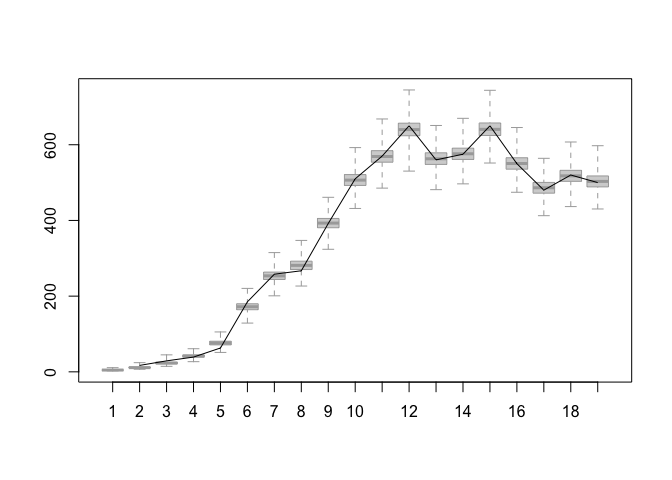
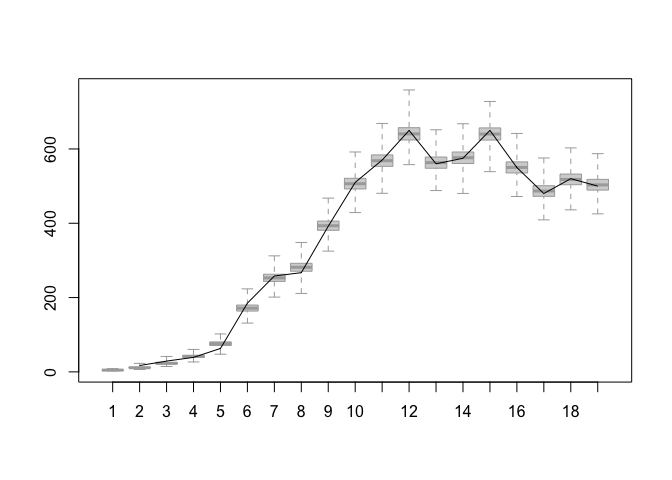
Update

diff --git a/03-time-series/README.md b/03-time-series/README.md
@@ -94,7 +94,7 @@ library(dclone)
     ## dclone 2.3-1      2023-04-07
 
 ``` r
-T_max = 100  # Number of time steps
+T_max = 200  # Number of time steps
 rho = 0.3
 sigma.e = 1
 tau.e = 0.25
@@ -154,9 +154,9 @@ AR1_Bayes_fit = jags.fit(data=dat, params=c("rho","prec.e","prec.t"), model=AR1_
     ##    Resolving undeclared variables
     ##    Allocating nodes
     ## Graph information:
-    ##    Observed stochastic nodes: 100
-    ##    Unobserved stochastic nodes: 103
-    ##    Total graph size: 310
+    ##    Observed stochastic nodes: 200
+    ##    Unobserved stochastic nodes: 203
+    ##    Total graph size: 610
     ## 
     ## Initializing model
 
@@ -174,16 +174,16 @@ summary(AR1_Bayes_fit)
     ##    plus standard error of the mean:
     ## 
     ##         Mean     SD Naive SE Time-series SE
-    ## prec.e 1.772 1.1264 0.009197        0.07823
-    ## prec.t 6.278 5.6375 0.046030        0.36594
-    ## rho    0.393 0.1259 0.001028        0.00252
+    ## prec.e 2.570 1.9709 0.016092       0.174432
+    ## prec.t 4.359 4.5044 0.036779       0.383831
+    ## rho    0.396 0.1466 0.001197       0.009174
     ## 
     ## 2. Quantiles for each variable:
     ## 
-    ##          2.5%    25%    50%    75%  97.5%
-    ## prec.e 0.9583 1.2525 1.4975 1.9022  4.144
-    ## prec.t 1.4006 2.7996 4.4722 7.6417 22.494
-    ## rho    0.1463 0.3106 0.3913 0.4761  0.642
+    ##          2.5%    25%    50%    75%   97.5%
+    ## prec.e 1.0604 1.4037 1.9321 3.0111  7.6855
+    ## prec.t 1.2703 1.8390 2.6591 4.8807 18.1782
+    ## rho    0.1485 0.2889 0.3809 0.4929  0.7124
 
 ``` r
 plot(AR1_Bayes_fit)
@@ -236,9 +236,9 @@ AR1_DC_fit = dc.fit(data=dat,params=c("rho","prec.t","prec.e"),model=AR1_DC_mode
     ##    Resolving undeclared variables
     ##    Allocating nodes
     ## Graph information:
-    ##    Observed stochastic nodes: 100
-    ##    Unobserved stochastic nodes: 103
-    ##    Total graph size: 311
+    ##    Observed stochastic nodes: 200
+    ##    Unobserved stochastic nodes: 203
+    ##    Total graph size: 611
     ## 
     ## Initializing model
     ## 
@@ -249,9 +249,9 @@ AR1_DC_fit = dc.fit(data=dat,params=c("rho","prec.t","prec.e"),model=AR1_DC_mode
     ##    Resolving undeclared variables
     ##    Allocating nodes
     ## Graph information:
-    ##    Observed stochastic nodes: 1000
-    ##    Unobserved stochastic nodes: 1003
-    ##    Total graph size: 3002
+    ##    Observed stochastic nodes: 2000
+    ##    Unobserved stochastic nodes: 2003
+    ##    Total graph size: 6002
     ## 
     ## Initializing model
     ## 
@@ -262,9 +262,9 @@ AR1_DC_fit = dc.fit(data=dat,params=c("rho","prec.t","prec.e"),model=AR1_DC_mode
     ##    Resolving undeclared variables
     ##    Allocating nodes
     ## Graph information:
-    ##    Observed stochastic nodes: 2000
-    ##    Unobserved stochastic nodes: 2003
-    ##    Total graph size: 5992
+    ##    Observed stochastic nodes: 4000
+    ##    Unobserved stochastic nodes: 4003
+    ##    Total graph size: 11992
     ## 
     ## Initializing model
 
@@ -285,26 +285,26 @@ summary(AR1_DC_fit)
     ## 1. Empirical mean and standard deviation for each variable,
     ##    plus standard error of the mean:
     ## 
-    ##           Mean      SD   DC SD  Naive SE Time-series SE R hat
-    ## prec.e  1.2104 0.07033  0.3145 0.0005743      0.0079082 1.085
-    ## prec.t 17.2381 8.52393 38.1202 0.0695976      1.4040514 1.296
-    ## rho     0.3509 0.02495  0.1116 0.0002037      0.0009894 1.032
+    ##          Mean      SD  DC SD Naive SE Time-series SE R hat
+    ## prec.e 1.9284 0.44600 1.9946 0.003642       0.075424 1.100
+    ## prec.t 3.2118 1.24420 5.5642 0.010159       0.245168 1.191
+    ## rho    0.3771 0.05976 0.2673 0.000488       0.009764 1.108
     ## 
     ## 2. Quantiles for each variable:
     ## 
-    ##         2.5%     25%     50%     75%   97.5%
-    ## prec.e 1.098  1.1627  1.2014  1.2472  1.3837
-    ## prec.t 6.250 11.2048 15.1937 21.3701 39.0880
-    ## rho    0.303  0.3341  0.3505  0.3673  0.4011
+    ##          2.5%    25%    50%    75%  97.5%
+    ## prec.e 1.3014 1.5944 1.8427 2.1861 3.0264
+    ## prec.t 1.8615 2.3544 2.8599 3.6733 6.9722
+    ## rho    0.2753 0.3326 0.3725 0.4176 0.5054
 
 ``` r
 dcdiag(AR1_DC_fit)
 ```
 
-    ##   n.clones lambda.max  ms.error  r.squared    r.hat
-    ## 1        1   35.34487 41.049049 0.46651078 1.013016
-    ## 2       10   92.57603  3.027127 0.13375675 1.077073
-    ## 3       20   72.65942  1.240150 0.05851262 1.180245
+    ##   n.clones lambda.max  ms.error r.squared    r.hat
+    ## 1        1  12.790437 28.537190 0.4222494 1.123060
+    ## 2       10   2.937209  9.826594 0.2296939 1.084862
+    ## 3       20   1.676096  5.334298 0.1617006 1.134098
 
 ``` r
 plot(dcdiag(AR1_DC_fit))
@@ -481,16 +481,16 @@ summary(BH_Bayes_fit)
     ##    plus standard error of the mean:
     ## 
     ##             Mean     SD Naive SE Time-series SE
-    ## ln.beta  -6.1524 0.1669 0.001363       0.004691
-    ## ln.sigma -1.9513 0.2739 0.002236       0.006891
-    ## ln.tmp    0.1581 0.1270 0.001037       0.003675
+    ## ln.beta  -6.1554 0.1651 0.001348       0.004423
+    ## ln.sigma -1.9668 0.2810 0.002295       0.006853
+    ## ln.tmp    0.1554 0.1261 0.001030       0.003394
     ## 
     ## 2. Quantiles for each variable:
     ## 
-    ##              2.5%      25%     50%    75%   97.5%
-    ## ln.beta  -6.49550 -6.25349 -6.1476 -6.049 -5.8236
-    ## ln.sigma -2.46652 -2.13917 -1.9558 -1.767 -1.4069
-    ## ln.tmp   -0.09701  0.08114  0.1602  0.237  0.4076
+    ##             2.5%      25%     50%     75%   97.5%
+    ## ln.beta  -6.5061 -6.25334 -6.1504 -6.0535 -5.8363
+    ## ln.sigma -2.4973 -2.16293 -1.9707 -1.7756 -1.4063
+    ## ln.tmp   -0.1134  0.08144  0.1584  0.2332  0.4028
 
 We can easily modify this program to obtain the MLE and its asymptotic
 variance.
@@ -580,9 +580,9 @@ dcdiag(BH_MLE)
 ```
 
     ##   n.clones  lambda.max   ms.error   r.squared    r.hat
-    ## 1        1 0.080578971 2.05897289 0.125435344 1.005363
-    ## 2        5 0.014442958 0.03579877 0.003989667 1.003206
-    ## 3       10 0.007320426 0.01529539 0.001367944 1.004197
+    ## 1        1 0.077813396 2.46464624 0.144387820 1.001228
+    ## 2        5 0.014738064 0.04861553 0.005266631 1.002731
+    ## 3       10 0.007446235 0.01101040 0.001313733 1.004338
 
 Parameters for this model are estimable. It will be interesting to see
 if one can use Negative Binomial distribution (one additional parameter)
@@ -671,48 +671,48 @@ summary(BH_Bayes_fit)
     ##    plus standard error of the mean:
     ## 
     ##          Mean      SD Naive SE Time-series SE
-    ## N[1]    4.798  0.6488 0.005298        0.01112
-    ## N[2]   11.366  1.7378 0.014189        0.03695
-    ## N[3]   23.475  3.1004 0.025314        0.05740
-    ## N[4]   41.818  4.3041 0.035143        0.06456
-    ## N[5]   76.006  7.0875 0.057869        0.11212
-    ## N[6]  172.324 11.9339 0.097440        0.16515
-    ## N[7]  254.042 14.3826 0.117433        0.15077
-    ## N[8]  281.411 16.1812 0.132119        0.22244
-    ## N[9]  393.208 18.2276 0.148828        0.19025
-    ## N[10] 506.992 21.2324 0.173362        0.22254
-    ## N[11] 569.251 22.4809 0.183556        0.23180
-    ## N[12] 640.603 24.7879 0.202392        0.27098
-    ## N[13] 563.626 22.6319 0.184788        0.23725
-    ## N[14] 576.416 22.4849 0.183589        0.23127
-    ## N[15] 641.187 24.7122 0.201774        0.27197
-    ## N[16] 550.786 22.5831 0.184391        0.23720
-    ## N[17] 486.605 21.0579 0.171937        0.22373
-    ## N[18] 518.184 21.4506 0.175143        0.22362
-    ## N[19] 503.257 21.3087 0.173985        0.22448
+    ## N[1]    4.774  0.6346 0.005182        0.01153
+    ## N[2]   11.323  1.7159 0.014010        0.03776
+    ## N[3]   23.383  3.0952 0.025272        0.06224
+    ## N[4]   41.732  4.2880 0.035012        0.06142
+    ## N[5]   75.872  7.0011 0.057164        0.10735
+    ## N[6]  172.004 12.0365 0.098278        0.17694
+    ## N[7]  253.346 14.5364 0.118689        0.15762
+    ## N[8]  281.576 15.9108 0.129911        0.22156
+    ## N[9]  393.559 18.5128 0.151157        0.19795
+    ## N[10] 506.843 21.2751 0.173710        0.22050
+    ## N[11] 568.934 22.6428 0.184878        0.23816
+    ## N[12] 640.740 24.3694 0.198975        0.26189
+    ## N[13] 563.387 22.3372 0.182383        0.23323
+    ## N[14] 576.587 22.8785 0.186802        0.24604
+    ## N[15] 640.571 24.3902 0.199145        0.27648
+    ## N[16] 550.471 21.9144 0.178930        0.23106
+    ## N[17] 486.951 21.1630 0.172796        0.24199
+    ## N[18] 518.312 21.5494 0.175950        0.22814
+    ## N[19] 503.712 21.4585 0.175208        0.22345
     ## 
     ## 2. Quantiles for each variable:
     ## 
-    ##          2.5%     25%     50%     75%   97.5%
-    ## N[1]    3.757   4.363   4.715   5.134   6.342
-    ## N[2]    8.675  10.165  11.112  12.311  15.411
-    ## N[3]   18.297  21.285  23.159  25.319  30.492
-    ## N[4]   33.737  38.933  41.656  44.620  50.786
-    ## N[5]   62.096  71.238  75.936  80.844  89.946
-    ## N[6]  150.257 164.130 171.972 179.837 197.243
-    ## N[7]  227.248 244.033 253.627 263.490 283.493
-    ## N[8]  250.497 270.307 281.331 292.361 313.561
-    ## N[9]  358.315 380.728 392.993 405.266 429.743
-    ## N[10] 466.680 492.419 506.524 521.203 549.044
-    ## N[11] 526.209 553.899 568.934 584.297 613.453
-    ## N[12] 593.298 623.806 640.004 656.933 691.265
-    ## N[13] 521.207 548.058 562.898 578.639 609.151
-    ## N[14] 533.085 561.196 576.085 590.950 621.943
-    ## N[15] 594.432 624.402 640.675 657.495 691.001
-    ## N[16] 506.870 535.476 550.429 565.597 596.554
-    ## N[17] 446.497 472.095 486.321 500.434 528.869
-    ## N[18] 477.291 503.352 517.793 532.384 561.095
-    ## N[19] 462.342 488.650 503.152 517.544 546.190
+    ##          2.5%     25%    50%     75%   97.5%
+    ## N[1]    3.731   4.352   4.69   5.111   6.264
+    ## N[2]    8.604  10.128  11.10  12.261  15.315
+    ## N[3]   18.240  21.203  23.07  25.197  30.376
+    ## N[4]   33.813  38.779  41.56  44.493  50.773
+    ## N[5]   62.219  71.132  75.76  80.618  89.619
+    ## N[6]  150.258 163.646 171.40 179.849 196.868
+    ## N[7]  225.903 243.451 252.93 262.739 283.175
+    ## N[8]  250.677 270.890 281.50 292.200 313.093
+    ## N[9]  358.123 381.125 393.38 405.856 430.838
+    ## N[10] 466.607 492.345 506.36 520.997 549.824
+    ## N[11] 526.629 553.241 568.38 584.006 615.146
+    ## N[12] 594.186 624.150 640.50 657.244 689.415
+    ## N[13] 520.356 548.119 563.16 578.316 608.052
+    ## N[14] 533.136 560.841 576.50 591.838 621.995
+    ## N[15] 594.493 623.979 640.15 656.640 689.925
+    ## N[16] 508.633 535.353 550.28 565.211 594.246
+    ## N[17] 446.054 472.557 486.75 501.038 528.958
+    ## N[18] 477.269 503.731 517.92 532.504 561.450
+    ## N[19] 462.481 489.278 503.31 518.160 546.684
 
 ``` r
 boxplot(unname(as.matrix(BH_Bayes_fit)), range=0, border="darkgrey")
@@ -782,48 +782,48 @@ summary(BH_DC_Pred)
     ##    plus standard error of the mean:
     ## 
     ##          Mean      SD Naive SE Time-series SE
-    ## N[1]    4.713  0.5384 0.004396       0.009624
-    ## N[2]   11.002  1.4453 0.011801       0.034288
-    ## N[3]   22.917  2.6868 0.021938       0.058206
-    ## N[4]   41.946  4.1754 0.034092       0.066613
-    ## N[5]   77.259  6.6343 0.054169       0.115149
-    ## N[6]  170.668 11.1820 0.091301       0.187360
-    ## N[7]  252.798 14.0841 0.114996       0.161348
-    ## N[8]  283.139 15.6387 0.127689       0.272678
-    ## N[9]  393.645 18.1459 0.148161       0.191189
-    ## N[10] 506.654 21.2097 0.173177       0.227677
-    ## N[11] 569.222 22.3524 0.182507       0.238118
-    ## N[12] 640.097 23.8440 0.194685       0.278207
-    ## N[13] 563.586 22.2321 0.181524       0.235367
-    ## N[14] 576.419 22.2754 0.181878       0.232191
-    ## N[15] 639.181 23.9305 0.195392       0.257009
-    ## N[16] 550.816 22.0123 0.179730       0.237721
-    ## N[17] 487.912 20.7511 0.169432       0.223389
-    ## N[18] 517.863 21.3374 0.174219       0.222328
-    ## N[19] 504.284 21.4139 0.174844       0.230551
+    ## N[1]    4.721  0.5349 0.004368       0.008818
+    ## N[2]   11.026  1.4286 0.011664       0.031582
+    ## N[3]   22.927  2.6960 0.022012       0.057568
+    ## N[4]   41.985  4.1494 0.033880       0.066692
+    ## N[5]   77.261  6.6053 0.053932       0.133109
+    ## N[6]  170.895 11.5578 0.094369       0.180812
+    ## N[7]  253.037 14.0782 0.114948       0.154063
+    ## N[8]  283.450 15.2174 0.124249       0.266063
+    ## N[9]  393.361 18.2644 0.149129       0.203414
+    ## N[10] 506.668 20.9981 0.171449       0.219708
+    ## N[11] 569.287 22.7215 0.185521       0.238177
+    ## N[12] 639.269 24.1895 0.197506       0.272523
+    ## N[13] 563.735 22.1206 0.180614       0.235728
+    ## N[14] 576.548 22.4847 0.183586       0.238595
+    ## N[15] 638.771 23.8332 0.194598       0.268601
+    ## N[16] 550.876 22.1896 0.181177       0.230976
+    ## N[17] 487.866 20.6818 0.168866       0.235671
+    ## N[18] 518.351 21.2967 0.173886       0.219586
+    ## N[19] 504.393 21.1779 0.172917       0.222094
     ## 
     ## 2. Quantiles for each variable:
     ## 
     ##          2.5%     25%     50%     75%   97.5%
-    ## N[1]    3.781   4.347   4.664   5.029   5.912
-    ## N[2]    8.597   9.990  10.856  11.844  14.347
-    ## N[3]   18.237  21.007  22.704  24.559  28.808
-    ## N[4]   34.246  39.038  41.775  44.632  50.631
-    ## N[5]   64.509  72.782  77.148  81.634  90.517
-    ## N[6]  149.781 162.960 170.280 178.089 193.601
-    ## N[7]  226.169 243.211 252.286 262.099 281.270
-    ## N[8]  252.333 272.888 282.898 293.566 313.886
-    ## N[9]  359.088 381.224 393.365 405.604 430.372
-    ## N[10] 466.055 492.211 506.311 520.894 549.116
-    ## N[11] 526.421 553.814 568.968 583.922 614.554
-    ## N[12] 594.517 623.788 639.598 656.116 688.096
-    ## N[13] 520.959 548.282 563.395 578.749 607.373
-    ## N[14] 534.095 561.184 576.337 591.173 621.575
-    ## N[15] 594.058 622.671 638.962 655.073 686.929
-    ## N[16] 508.439 535.616 550.416 565.674 594.920
-    ## N[17] 448.080 473.601 487.663 501.960 529.188
-    ## N[18] 477.012 503.284 517.772 531.969 560.291
-    ## N[19] 463.663 489.558 504.071 518.571 546.683
+    ## N[1]    3.796   4.355   4.678   5.031   5.905
+    ## N[2]    8.670  10.041  10.868  11.825  14.298
+    ## N[3]   18.263  21.049  22.686  24.588  28.799
+    ## N[4]   34.149  39.179  41.889  44.649  50.353
+    ## N[5]   64.665  72.712  77.178  81.746  90.229
+    ## N[6]  149.853 162.938 170.447 178.303 195.066
+    ## N[7]  226.606 243.315 252.600 262.308 281.752
+    ## N[8]  254.477 272.880 283.155 293.847 313.648
+    ## N[9]  358.254 380.815 393.078 405.448 429.919
+    ## N[10] 466.356 492.196 506.393 520.537 548.798
+    ## N[11] 524.910 554.156 568.873 584.175 614.802
+    ## N[12] 592.459 622.849 638.945 655.254 687.741
+    ## N[13] 521.802 548.560 563.341 578.491 607.930
+    ## N[14] 533.510 561.038 576.212 591.571 620.909
+    ## N[15] 592.681 622.665 638.706 654.264 686.283
+    ## N[16] 508.278 535.628 550.706 565.473 595.084
+    ## N[17] 448.125 473.817 487.408 501.747 529.750
+    ## N[18] 477.607 503.661 518.073 532.607 560.600
+    ## N[19] 463.982 489.760 504.294 518.641 546.480
 
 ``` r
 boxplot(unname(as.matrix(BH_DC_Pred)), range=0, border="darkgrey")
@@ -897,16 +897,16 @@ summary(BH_Bayes_fit)
     ##    plus standard error of the mean:
     ## 
     ##        Mean     SD Naive SE Time-series SE
-    ## N[19] 503.4  21.56   0.1760         0.2244
-    ## N[20] 532.8  88.44   0.7221         0.7346
-    ## N[21] 545.3 103.78   0.8474         0.9350
+    ## N[19] 503.5  21.60   0.1763         0.2195
+    ## N[20] 533.4  88.82   0.7252         0.7666
+    ## N[21] 545.8 101.68   0.8303         0.8701
     ## 
     ## 2. Quantiles for each variable:
     ## 
     ##        2.5%   25%   50%   75% 97.5%
-    ## N[19] 461.9 488.8 502.9 518.0 546.5
-    ## N[20] 375.7 475.6 526.7 581.9 727.1
-    ## N[21] 366.8 478.9 536.2 601.6 776.7
+    ## N[19] 462.0 488.7 503.2 517.9 546.3
+    ## N[20] 375.4 476.9 527.3 581.5 730.2
+    ## N[21] 369.0 479.7 537.9 601.7 770.0
 
 ``` r
 pred = mcmcapply(BH_Bayes_fit, quantile, c(0.05, 0.5, 0.95))
